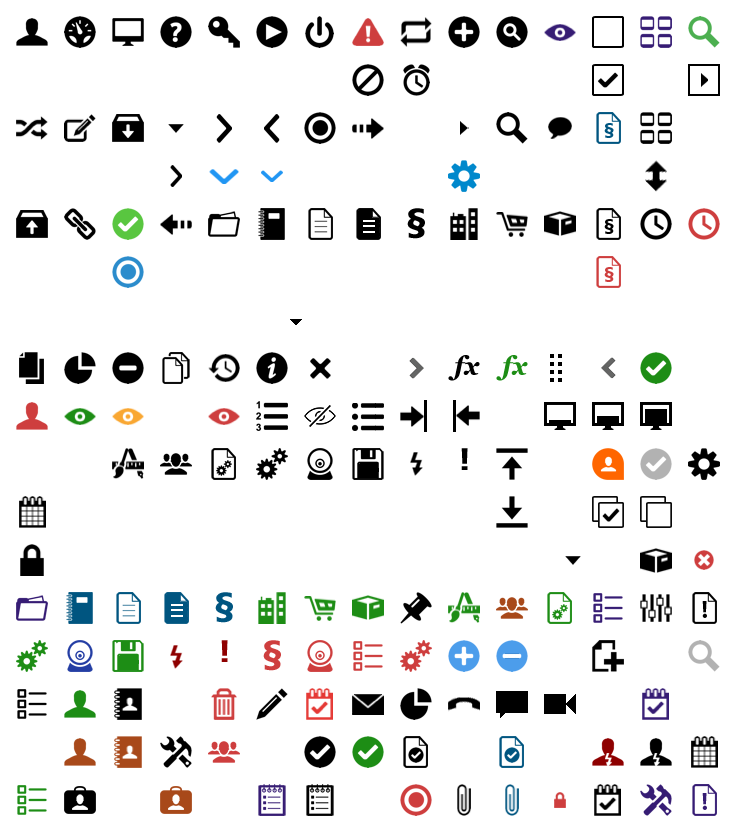
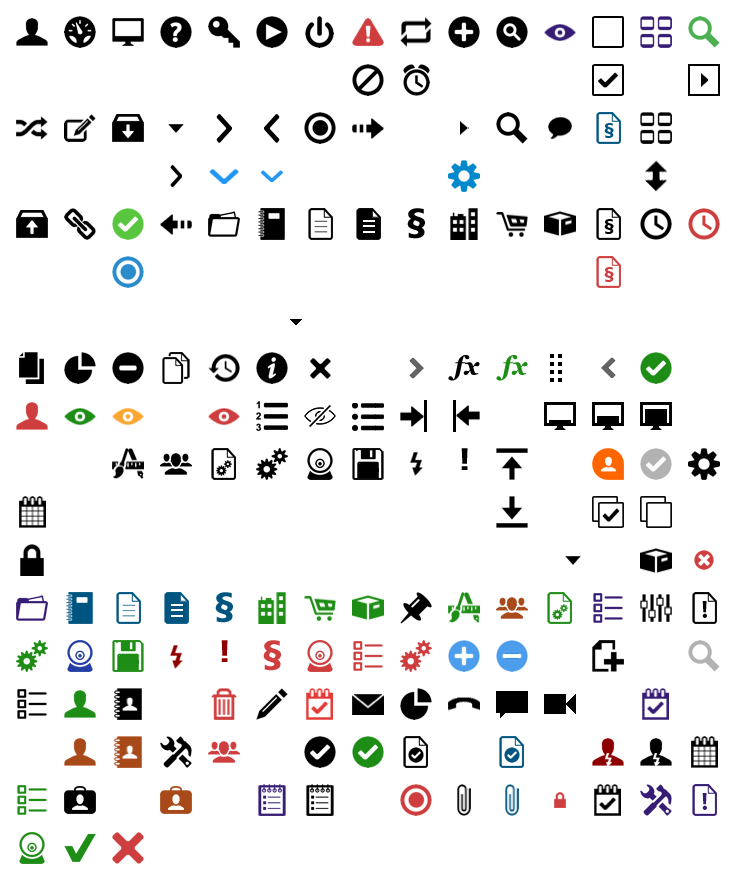
CORE-1428 control assessment widget styling

diff --git a/src/ggrc/assets/stylesheets/_common.scss b/src/ggrc/assets/stylesheets/_common.scss
@@ -1182,6 +1182,54 @@ p {
   }
 }
 
+.pos-wrap {
+  position: relative;
+  .dropdown-menu {
+    @include reset-list();
+    @include border-radius(0);
+    min-width: 210px;
+    float: none;
+    padding: 5px 0;
+    margin-top: 6px;
+    text-transform: none;
+    top: 100%;
+    right: 0;
+    left: auto;
+    z-index: 9999;
+    li {
+      float:none;
+      clear: both;
+      text-transform: none;
+      a {
+        display: block;
+        line-height: 30px;
+        padding: 0 10px;
+        background: none;
+        text-shadow: none;
+        color: $gray;
+        @include transition(background 0.2s ease, color 0.2s ease);
+        i {
+          margin: 7px 4px 0 0;
+          @include opacity(0.4);
+          @include transition(opacity 0.2s ease);
+        }
+        &:hover {
+          background: $headerBgnd;
+          color: $black;
+          i {
+            @include opacity(1);
+          }
+        }
+      }
+      &.border {
+        border-top: 1px solid $headerBgnd;
+        padding-top: 5px;
+        margin-top: 5px;
+      }
+    }
+  }
+}
+
 .overdue {
   color: $red;
   font-weight: bold;

diff --git a/src/ggrc/assets/stylesheets/_icons.scss b/src/ggrc/assets/stylesheets/_icons.scss
@@ -21,7 +21,7 @@
   background-image: image-url("grcicons/icons.png");
   background-position: -2000px -2000px; // blank default state
   background-repeat: no-repeat;
-  @include background-size(368px 416px);
+  @include background-size(368px 440px);
   &.process-icon {
     margin-top:2px;
     @include opacity(0.5);
@@ -263,6 +263,8 @@ a.remove_filter i[class^="grcicon-"] {
 .grcicon-manual { background-position: -318px -296px; }
 .grcicon-archive { background-position: -318px -272px; }
 .grcicon-my-work { background-position: -294px -224px; }
+.grcicon-done { background-position: -30px -416px; }
+.grcicon-not-done  { background-position: -54px -416px; }
 
 // Large icons
 .grciconlarge-dashboard { background-position:-8px -8px; }
@@ -609,6 +611,12 @@ i.short {
   &.disabled {
     // turns icons to black
     @extend %black-icons;
+  }
+  .control-yes {
+    .grcicon-control-color { background-position: -6px -416px; }
+  }
+  .control-no {
+    .grcicon-control-color { background-position: -150px -224px; }
   }
 }
 
